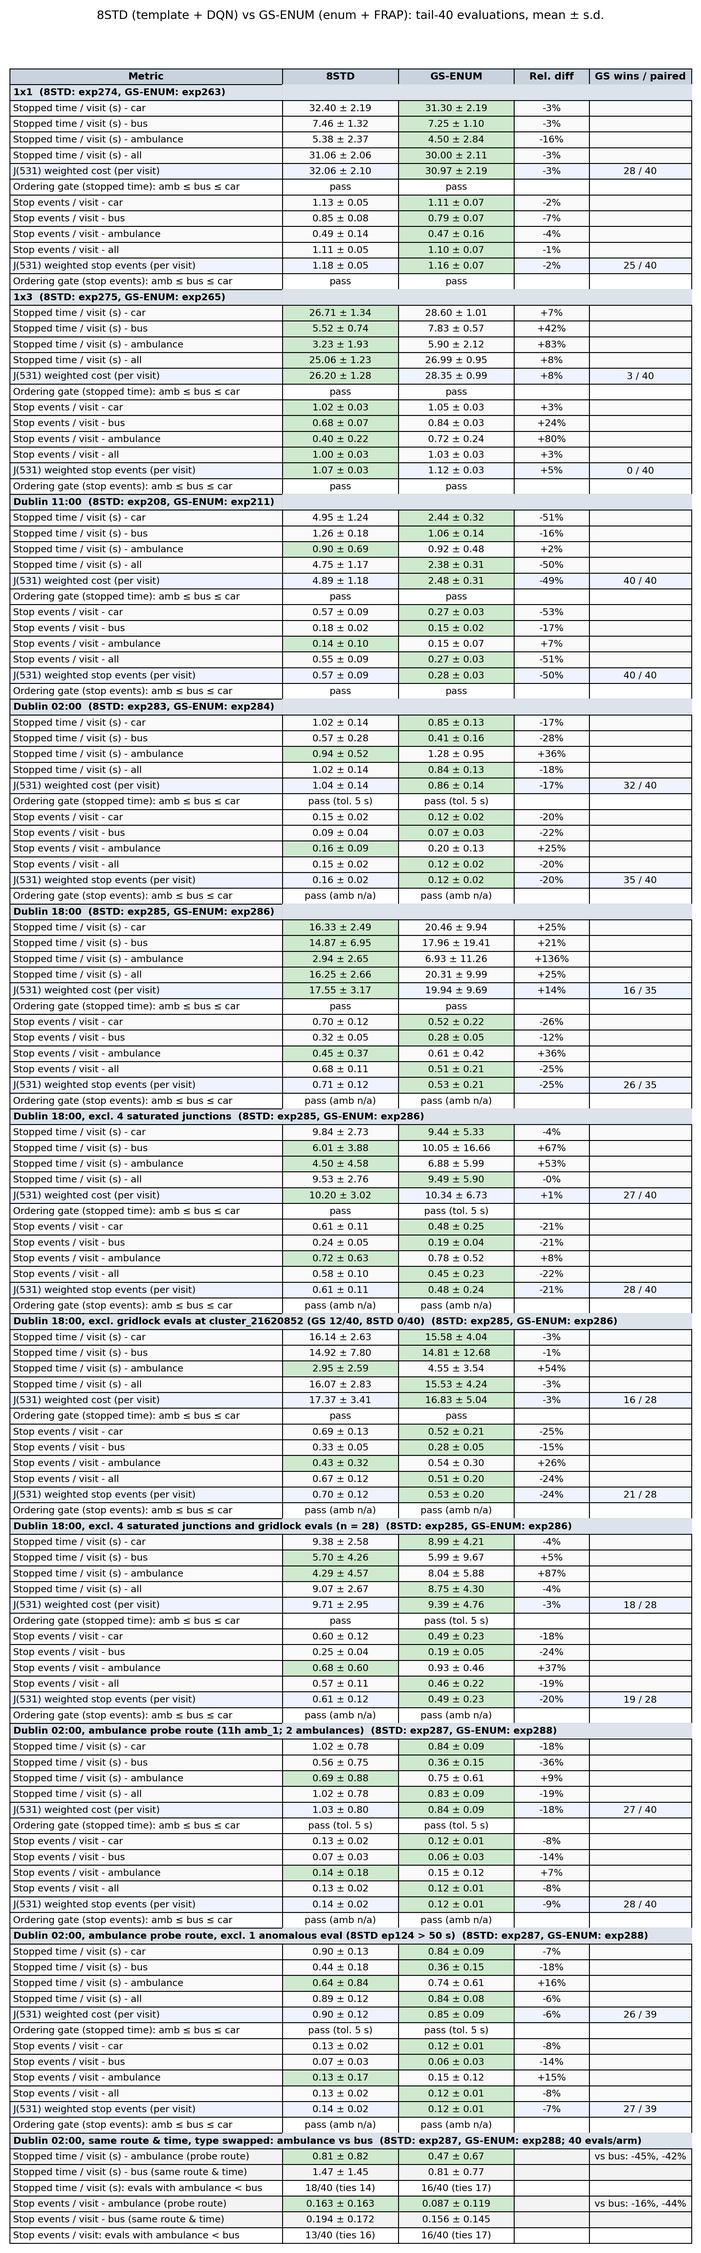
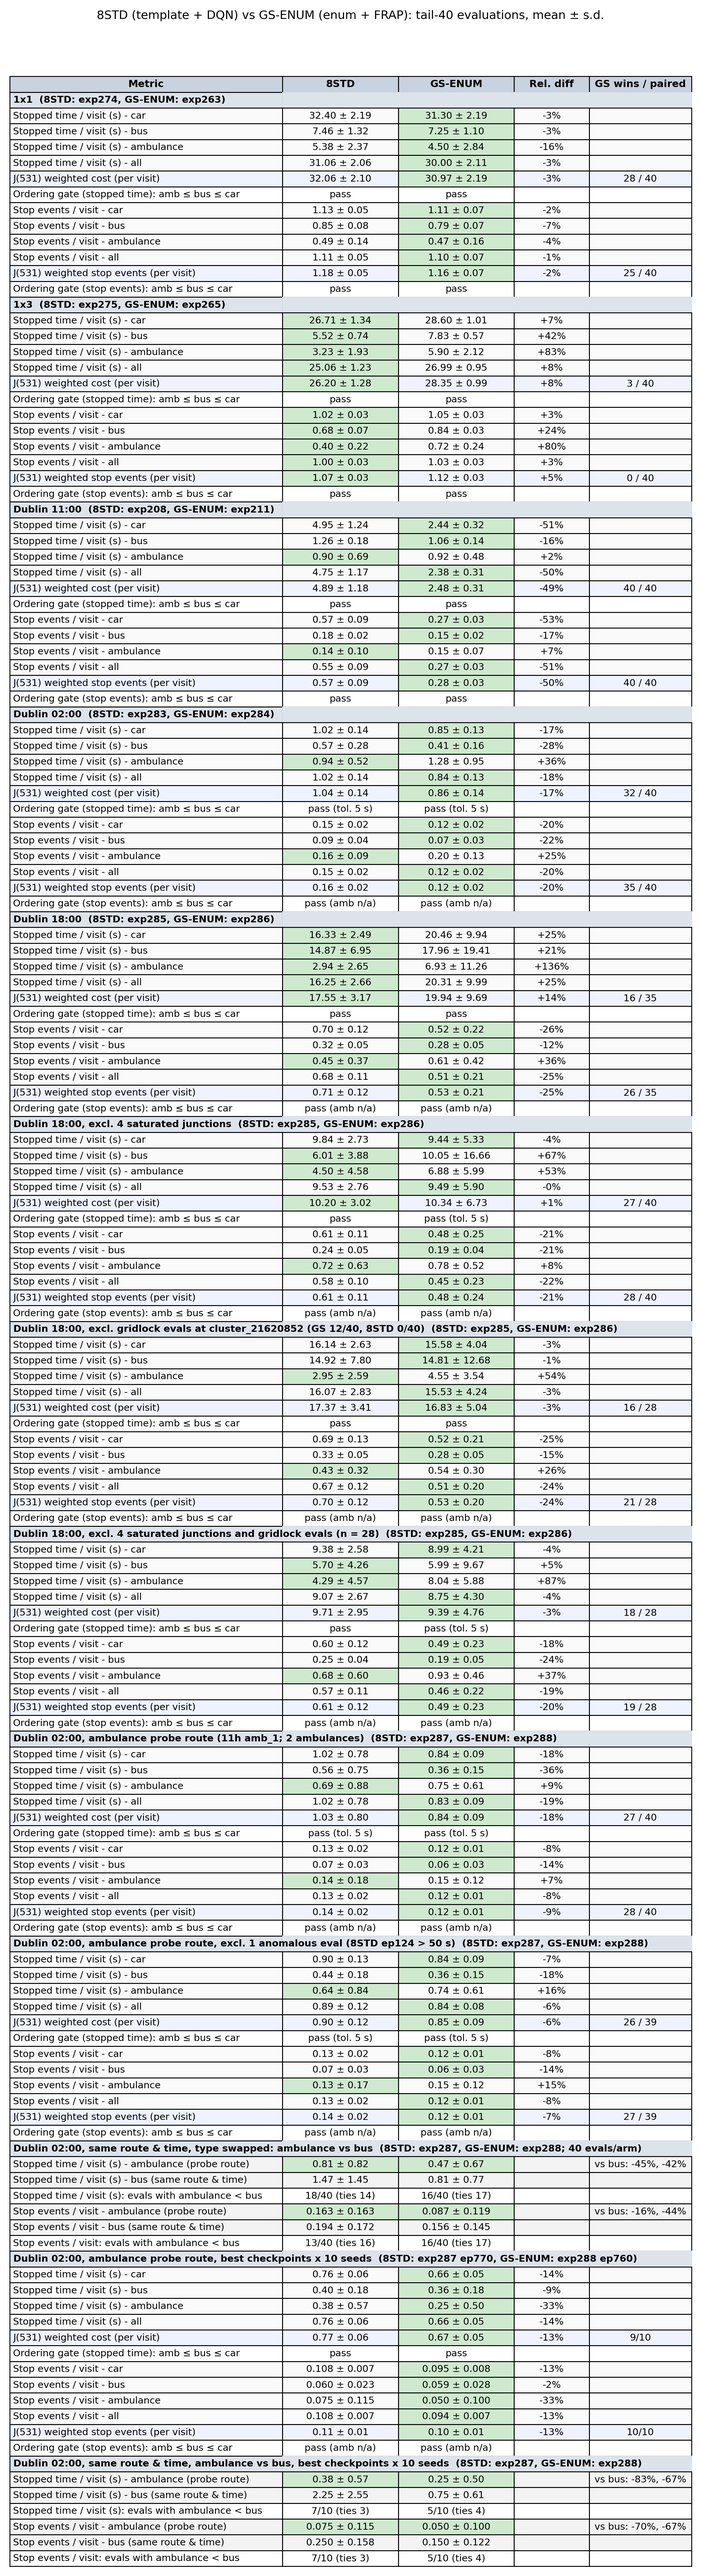
主对比表加两块: 02h 探针对 best.pth × 10 种子 (停车时间 + 停车次数, 4 车类 + J + 门) 与其同路换车型块 (用户令)

diff --git a/experiments/tools/figures/plot_main_table_en_2026-09-22.py b/experiments/tools/figures/plot_main_table_en_2026-09-22.py
@@ -2,6 +2,7 @@
 1x1 (274/263) → 1x3 (275/265) → Dublin 11:00 (208/211) → Dublin 02:00 (283/284) → Dublin 18:00 (285/286)
 → Dublin 18:00 剔除 4 个饱和路口 (任一臂尾40均值 >50 s, 两臂对称; 访问量加权, 权重 = 路由文件车辆数, 两臂相同)
 → Dublin 02:00 救护车探针对 (exp287/288, 救护车路线 = 11h amb_1, 两辆): 全量尾40 + 剔除 1 次异常评估 (任一臂任一路口 >50 s: 8STD ep124)
+→ Dublin 02:00 best.pth × 10 评估种子 (287 ep770 / 288 ep760, 收集器口径, 停车时间 + 停车次数 + 门) 与其同路换车型块 (2026-09-30)
 → Dublin 18:00 两条规则叠加 (剔 4 口 + 剔锁死评估, n=28, 访问量加权)
 → Dublin 18:00 剔除合流口 cluster_21620852 锁死评估 (规则对称: 任一臂该口 all 停车时间 >100 s 的评估两臂同剔;
    尾40 里只有 GS 触发 12 次, 8STD 0 次, 标题如实标注; n=28 配对)。
@@ -73,7 +74,43 @@ for key,sdk,lab in (("pv","pv_sd","Stopped time / visit (s)"),("ev","ev_sd","Sto
     cells.append([f"{lab} - ambulance (probe route)", f"{a[0]:.{d}f} ± {asd[0]:.{d}f}", f"{b[0]:.{d}f} ± {bsd[0]:.{d}f}", "", f"vs bus: {100*(a[0]/a[1]-1):+.0f}%, {100*(b[0]/b[1]-1):+.0f}%"]); colors.append(_tscol(TS,key))
     cells.append([f"{lab} - bus (same route & time)", f"{a[1]:.{d}f} ± {asd[1]:.{d}f}", f"{b[1]:.{d}f} ± {bsd[1]:.{d}f}", "", ""]); colors.append(["#f3f3f3"]*5)
     cells.append([f"{lab}: evals with ambulance < bus", _tswins(TS,"8STD",key), _tswins(TS,"GS",key), "", ""]); colors.append(["#ffffff"]*5)
-fig,ax=plt.subplots(figsize=(13.5,44.5)); ax.axis("off")
+
+# ── 附加块 (2026-09-30 用户令): best.pth × 10 评估种子 (287 ep770 / 288 ep760), 收集器口径, 含停车次数; 数据来自 plot_02h_best10seeds_table 的 JSON ──
+_B=_json.load(open("experiments/analysis/figures/main_comparison_02h_best10seeds_2026-09-30_en.json"))
+_bk=[k for k in _B if "best checkpoints (" in k and "excl" not in k]
+_epA,_epB=_B["best_ep"]; _ns=len(_B["seeds"])
+hdr.append(len(cells)+1); cells.append(["","","","",""]); colors.append(["#dde3ea"]*5)
+BEST_TITLE=f"Dublin 02:00, ambulance probe route, best checkpoints x {_ns} seeds  (8STD: exp287 ep{_epA}, GS-ENUM: exp288 ep{_epB})"
+def _gate_txt(rows, m):
+    mean={r[0].split(" - ")[-1]: (r[1], r[3]) for r in rows if " - " in r[0]}
+    out=[]
+    for i in (0,1):
+        am,bu,ca=mean["ambulance"][i],mean["bus"][i],mean["car"][i]
+        if m=="avg_stop_events_per_visit": out.append("pass (amb n/a)" if bu<=ca else "fail (amb n/a)")
+        else: out.append(gate(am,bu,ca))
+    return out
+for m,lab_short,glab in (("avg_stopped_time_per_visit","Stopped time / visit (s)","Ordering gate (stopped time): amb ≤ bus ≤ car"),("avg_stop_events_per_visit","Stop events / visit","Ordering gate (stop events): amb ≤ bus ≤ car")):
+    rows=_B[[k for k in _bk if k.endswith("|"+m)][0]]
+    for r in rows:
+        lab,a,asd,b,bsd,rel,wins=r; isJ=lab.startswith("J(")
+        col=["#eef3ff" if isJ else "#fafafa"]*5; col[2 if b<a else 1]=GREEN
+        d=3 if (m=="avg_stop_events_per_visit" and not isJ) else 2
+        cells.append([lab, f"{a:.{d}f} ± {asd:.{d}f}", f"{b:.{d}f} ± {bsd:.{d}f}", rel, wins if isJ else ""]); colors.append(col)
+    g=_gate_txt(rows, m); cells.append([glab, g[0], g[1], "", ""]); colors.append(["#ffffff"]*5)
+# 同路线换车型 (best.pth × 10 seeds)
+hdr.append(len(cells)+1); cells.append(["","","","",""]); colors.append(["#dde3ea"]*5)
+BEST_TS_TITLE=f"Dublin 02:00, same route & time, ambulance vs bus, best checkpoints x {_ns} seeds  (8STD: exp287, GS-ENUM: exp288)"
+import numpy as _np
+for key,lab,d in (("pv","Stopped time / visit (s)",2),("ev","Stop events / visit",3)):
+    a=_B["typeswap"]["8STD"][key]; b=_B["typeswap"]["GS"][key]
+    ma=(_np.mean(a[0]),_np.mean(a[1])); mb=(_np.mean(b[0]),_np.mean(b[1])); col=["#f3f3f3"]*5
+    if ma[0]<ma[1]: col[1]=GREEN
+    if mb[0]<mb[1]: col[2]=GREEN
+    cells.append([f"{lab} - ambulance (probe route)", f"{ma[0]:.{d}f} ± {_np.std(a[0]):.{d}f}", f"{mb[0]:.{d}f} ± {_np.std(b[0]):.{d}f}", "", f"vs bus: {100*(ma[0]/ma[1]-1):+.0f}%, {100*(mb[0]/mb[1]-1):+.0f}%"]); colors.append(col)
+    cells.append([f"{lab} - bus (same route & time)", f"{ma[1]:.{d}f} ± {_np.std(a[1]):.{d}f}", f"{mb[1]:.{d}f} ± {_np.std(b[1]):.{d}f}", "", ""]); colors.append(["#f3f3f3"]*5)
+    _w=lambda x: f"{sum(1 for p,q in zip(*x) if p<q)}/{len(x[0])} (ties {sum(1 for p,q in zip(*x) if p==q)})"
+    cells.append([f"{lab}: evals with ambulance < bus", _w(a), _w(b), "", ""]); colors.append(["#ffffff"]*5)
+fig,ax=plt.subplots(figsize=(13.5,52)); ax.axis("off")
 tbl=ax.table(cellText=cells,colLabels=["Metric","8STD","GS-ENUM","Rel. diff","GS wins / paired"],cellColours=colors,colColours=["#c9d3df"]*5,loc="upper center",cellLoc="center",colWidths=[0.40,0.17,0.17,0.11,0.15])
 tbl.auto_set_font_size(False); tbl.scale(1,1.45)
 for (r,c),cell in tbl.get_celld().items():
@@ -85,7 +122,7 @@ for (r,c),cell in tbl.get_celld().items():
         if c>0: cell.set_edgecolor("#dde3ea")
 ax.set_title("8STD (template + DQN) vs GS-ENUM (enum + FRAP): tail-40 evaluations, mean ± s.d.",fontsize=13,pad=6)
 fig.canvas.draw(); ren=fig.canvas.get_renderer(); inv=fig.transFigure.inverted()
-for r,scen in zip(hdr,[x[0] for x in S]+[TSWAP_TITLE]):   # 块标题跨列叠加, 不受相邻单元格遮挡
+for r,scen in zip(hdr,[x[0] for x in S]+[TSWAP_TITLE,BEST_TITLE,BEST_TS_TITLE]):   # 块标题跨列叠加, 不受相邻单元格遮挡
     bb=tbl[r,0].get_window_extent(ren); x0,y0=inv.transform((bb.x0,bb.y0)); x1,y1=inv.transform((bb.x1,bb.y1))
     fig.text(x0+0.004, (y0+y1)/2, scen, ha="left", va="center", fontsize=10.5, weight="bold", zorder=10)
 from matplotlib.transforms import Bbox
